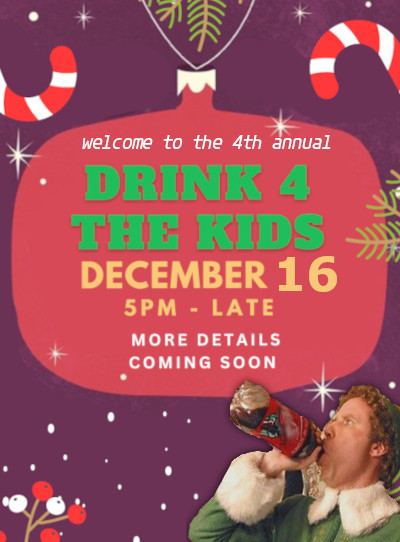
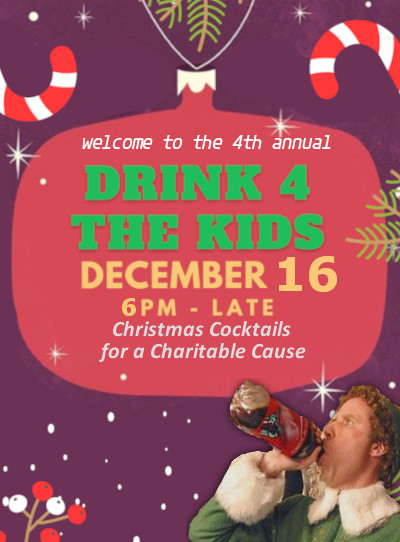
fa and homepage content updates

Changed region(s): [[0.24, 0.5314, 0.78, 0.679]]

diff --git a/frontend/d4k-2023/src/pages/FAQ.js b/frontend/d4k-2023/src/pages/FAQ.js
@@ -20,19 +20,18 @@ const FAQ = () => {
             <ul>
                 <CardListItem
                     question = "What Charity?"
-                    response = {`The Nicholas house! It's a nonprofit agency that operates an emergency shelter, 
-                    as well as scattered apartment sites for homeless families.
-                    They help homeless families make the transition from homelessness to self-sufficiency in a structured, but home-like environment.`}
+                    response = {`The Nicholas House and Bethany Haven. Both are a nonprofit agencies that operate emergency shelters, for homeless families.
+                    They help families make the transition from homelessness to self-sufficiency in a structured, but home-like environment.`}
                     link = "https://nicholashouse.org/"
-                    linkText = "Visit their site to read more!"
+                    linkText = "Visit their site to read more"
                 />
                 <CardListItem
                     question = "What Should I Bring?"
-                    response = "Your friends, your mom, your friend's mom, and a heart of gold (or cash/card)"
+                    response = "Your friends, your parents, your friend's parents, and a heart of gold (or cash/card)"
                 />
                 <CardListItem
-                    question = "What's the Dress Code'?"
-                    response = "Bring that holiday spirit. Tacky sweaters, xmas pajamas, santa tuxedoes, elf shit"
+                    question = "What's the Dress Code?"
+                    response = "Tacky sweaters, xmas pajamas, santa tuxedoes. Bring that holiday spirit."
                 />
                 <CardListItem
                     question = "Can I BYOB?"
@@ -40,7 +39,7 @@ const FAQ = () => {
                 />
                 <CardListItem
                     question = "Can I Order Off-Menu?"
-                    response = "Absolutely! You can put a custom drink order in on the order page. Just make sure to leave a comment telling us what you'd like!"
+                    response = "Absolutely! We have a fully-stocked bar and you can put a custom drink order in on the order page. Just make sure to leave a comment telling us what you'd like!"
                 />
                 
             </ul>

diff --git a/frontend/d4k-2023/src/pages/HomePage.js b/frontend/d4k-2023/src/pages/HomePage.js
@@ -81,30 +81,30 @@ const HomePage = () => {
 
                 {/* DIV FOR NEW LOGO */}
                 <div>
-                    <p className="text-6xl text-green-600 mt-5 font-extrabold font-bungee title">DRINK 4 <br></br> THE KIDS
-                        <br/><FontAwesomeIcon className="title" icon={faChampagneGlasses}></FontAwesomeIcon>
+                    <p className="text-6xl text-green-600 my-3 font-extrabold font-bungee title">DRINK 4 <br></br> THE KIDS
+                        <br/><FontAwesomeIcon className="mt-4 title font-extrabold" icon={faChampagneGlasses}></FontAwesomeIcon>
                     </p>
                 </div>
 
-                <p className="text-2xl italic font-fugaz mt-2 mb-5">Christmas Cocktails for a Charitable Cause</p>
+                <p className="text-2xl italic font-fugaz mt-2">Christmas Cocktails <br/> for a Charitable Cause</p>
 
-                <p onClick={onOpen} className="text-3xl my-8 font-bold font-bungee flex flex-col underline tracking-wider">
+                <p onClick={onOpen} className="text-3xl mt-6 mb-8 font-bold font-bungee flex flex-col underline tracking-wider">
                     Saturday<span className="my-2">
                         December 16th</span>
-                        5PM — Late
+                        6PM — Late
                 </p>
 
                 <BuddyLogo />
             </div>
 
         {/* EXPLAINER DIV */}
-            <div className="py-5 my-5">
+            <div className="py-5 mb-5 mt-8">
 
                 <p className="italic text-3xl my-5 font-bold font-fugaz">Not just another Christmas Party</p>
 
                 <p className="text-2xl my-5">It's a holiday spirited pop up bar serving up <span className="italic font-bold">the best craft cocktails</span> and the worst puns for donations to a great cause</p>
 
-                <p className="text-2xl font-extrabold italic">All proceeds go to Nicholas House Family Homeless Shelter</p>
+                <p className="text-2xl font-extrabold italic">All proceeds go to Bethany Haven & Nicholas House Family Homeless Shelter</p>
                 <br/>
                 <Button 
                 className="uk-button bg-green-600" 

diff --git a/frontend/d4k-2023/public/index.html b/frontend/d4k-2023/public/index.html
@@ -5,14 +5,15 @@
   <meta charset="utf-8" />
   <meta name="viewport" content="width=device-width, initial-scale=1" />
   <meta name="theme-color" content="#000000" />
-  <meta name="description" content="4th Annual D4K - Charity Christmas Party" />
-  <meta property="og:title" content="4th Annual D4K - Charity Christmas Party">
+  <meta name="description" content="D4K - Christmas Charity Party" />
+  <meta property="og:title" content="D4K - Christmas Charity Party">
   <meta property="og:type" content="website">
   <meta property="og:video:url" content="./d4k.mp4" />
+  <meta property="og:video:secure_url" content="./d4k.mp4">
+  <meta property="og:video:type" content="video/mp4">
   <meta property="og:video:width" content="640" />
   <meta property="og:video:height" content="380" />
-  <!-- <meta property="og:image" content="./images/iphonepreview.jpg" /> -->
-  <meta property="og:video:type" content="video/mp4">
+  <meta property="og:image" content="./images/iphonepreview.jpg" />
   <link rel="icon" href="favicon.ico" />
   <link rel="preconnect" href="https://fonts.googleapis.com">
   <link rel="preconnect" href="https://fonts.gstatic.com" crossorigin>
